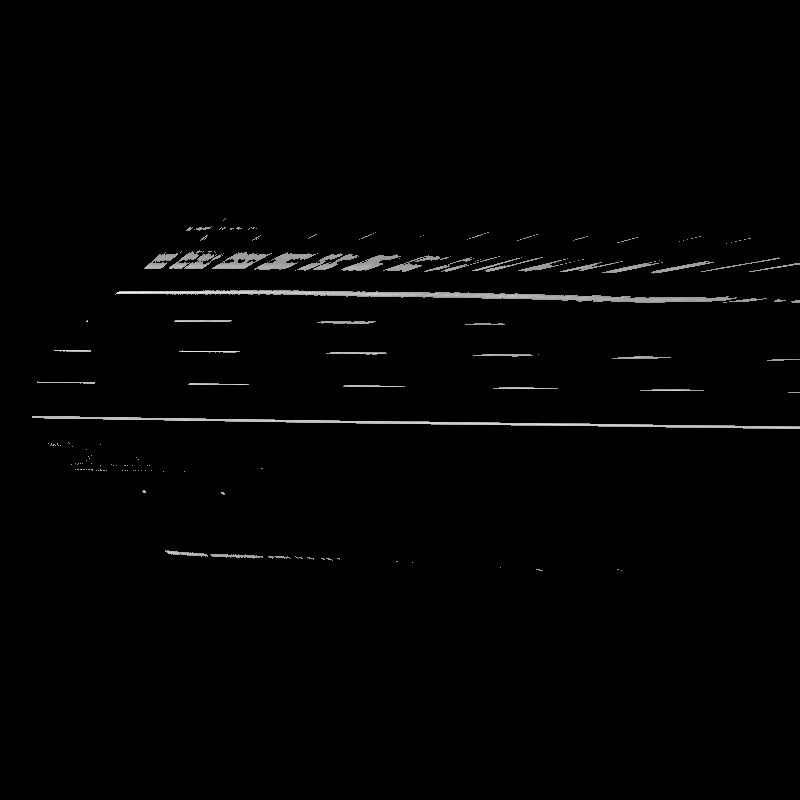
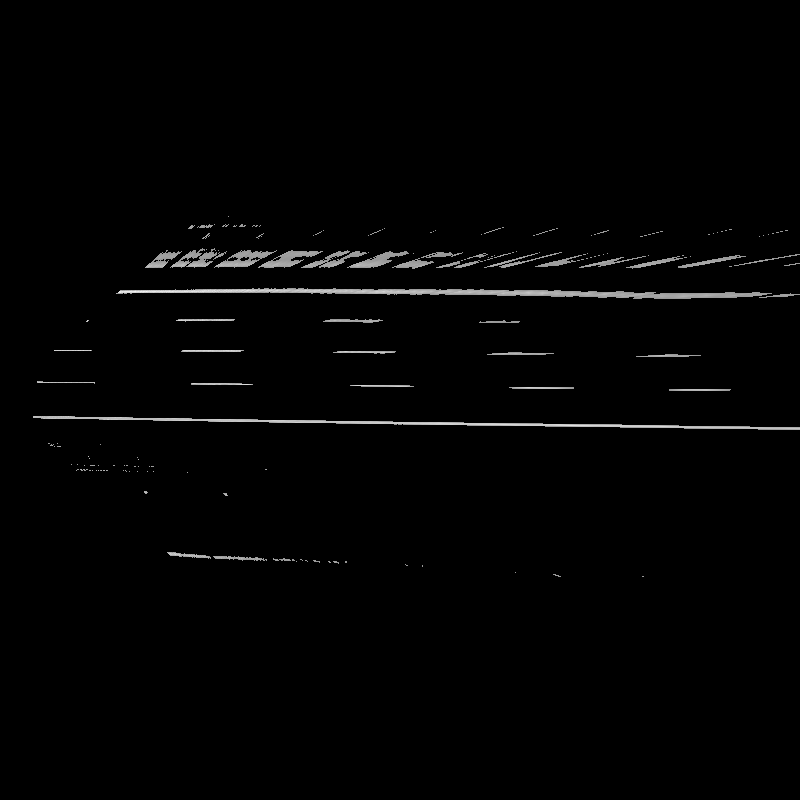
definition name updte

diff --git a/ipm.py b/ipm.py
@@ -16,7 +16,8 @@ from utils import perspective, Plane, load_camera_params, bilinear_sampler, warp
 image = cv2.cvtColor(cv2.imread('1.png'), cv2.COLOR_BGR2RGB)
 interpolation_fn = bilinear_sampler  # or warped
 TARGET_H, TARGET_W = 800, 800
-INCREMENT_COEFF = 0.001
+INCREMENT_COEFF = 0.0005
+LINE_REMOVING_COEFF = 30
 PARALLELISM_TOLERANCE = 1 #comparison level for detecting paralelism 
 
 def ipm_from_parameters(image, xyz, K, RT, interpolation_fn):
@@ -75,7 +76,7 @@ def get_lines():
     #get lines
     lines = cv2.HoughLines(canny_out, 1, np.pi / 180, 245)
     
-    if len(lines) == 0:
+    if len(lines) == 0: #bug fix for crash
         return 0
 
     for line in lines:
@@ -108,7 +109,7 @@ def get_lines():
                 dist_end = distance(det_lines[i].x2, det_lines[i].y2, det_lines[j].x2, det_lines[j].y2)
                 #print("d1 " + str(dist_start))
                 #print("d2 " + str(dist_end))
-                if(dist_start < 30 and dist_end < 30):
+                if(dist_start < LINE_REMOVING_COEFF and dist_end < LINE_REMOVING_COEFF):
                     #print("****remove " + str(i))
                     if(i not in rm_lines):
                         rm_lines.append(i)
